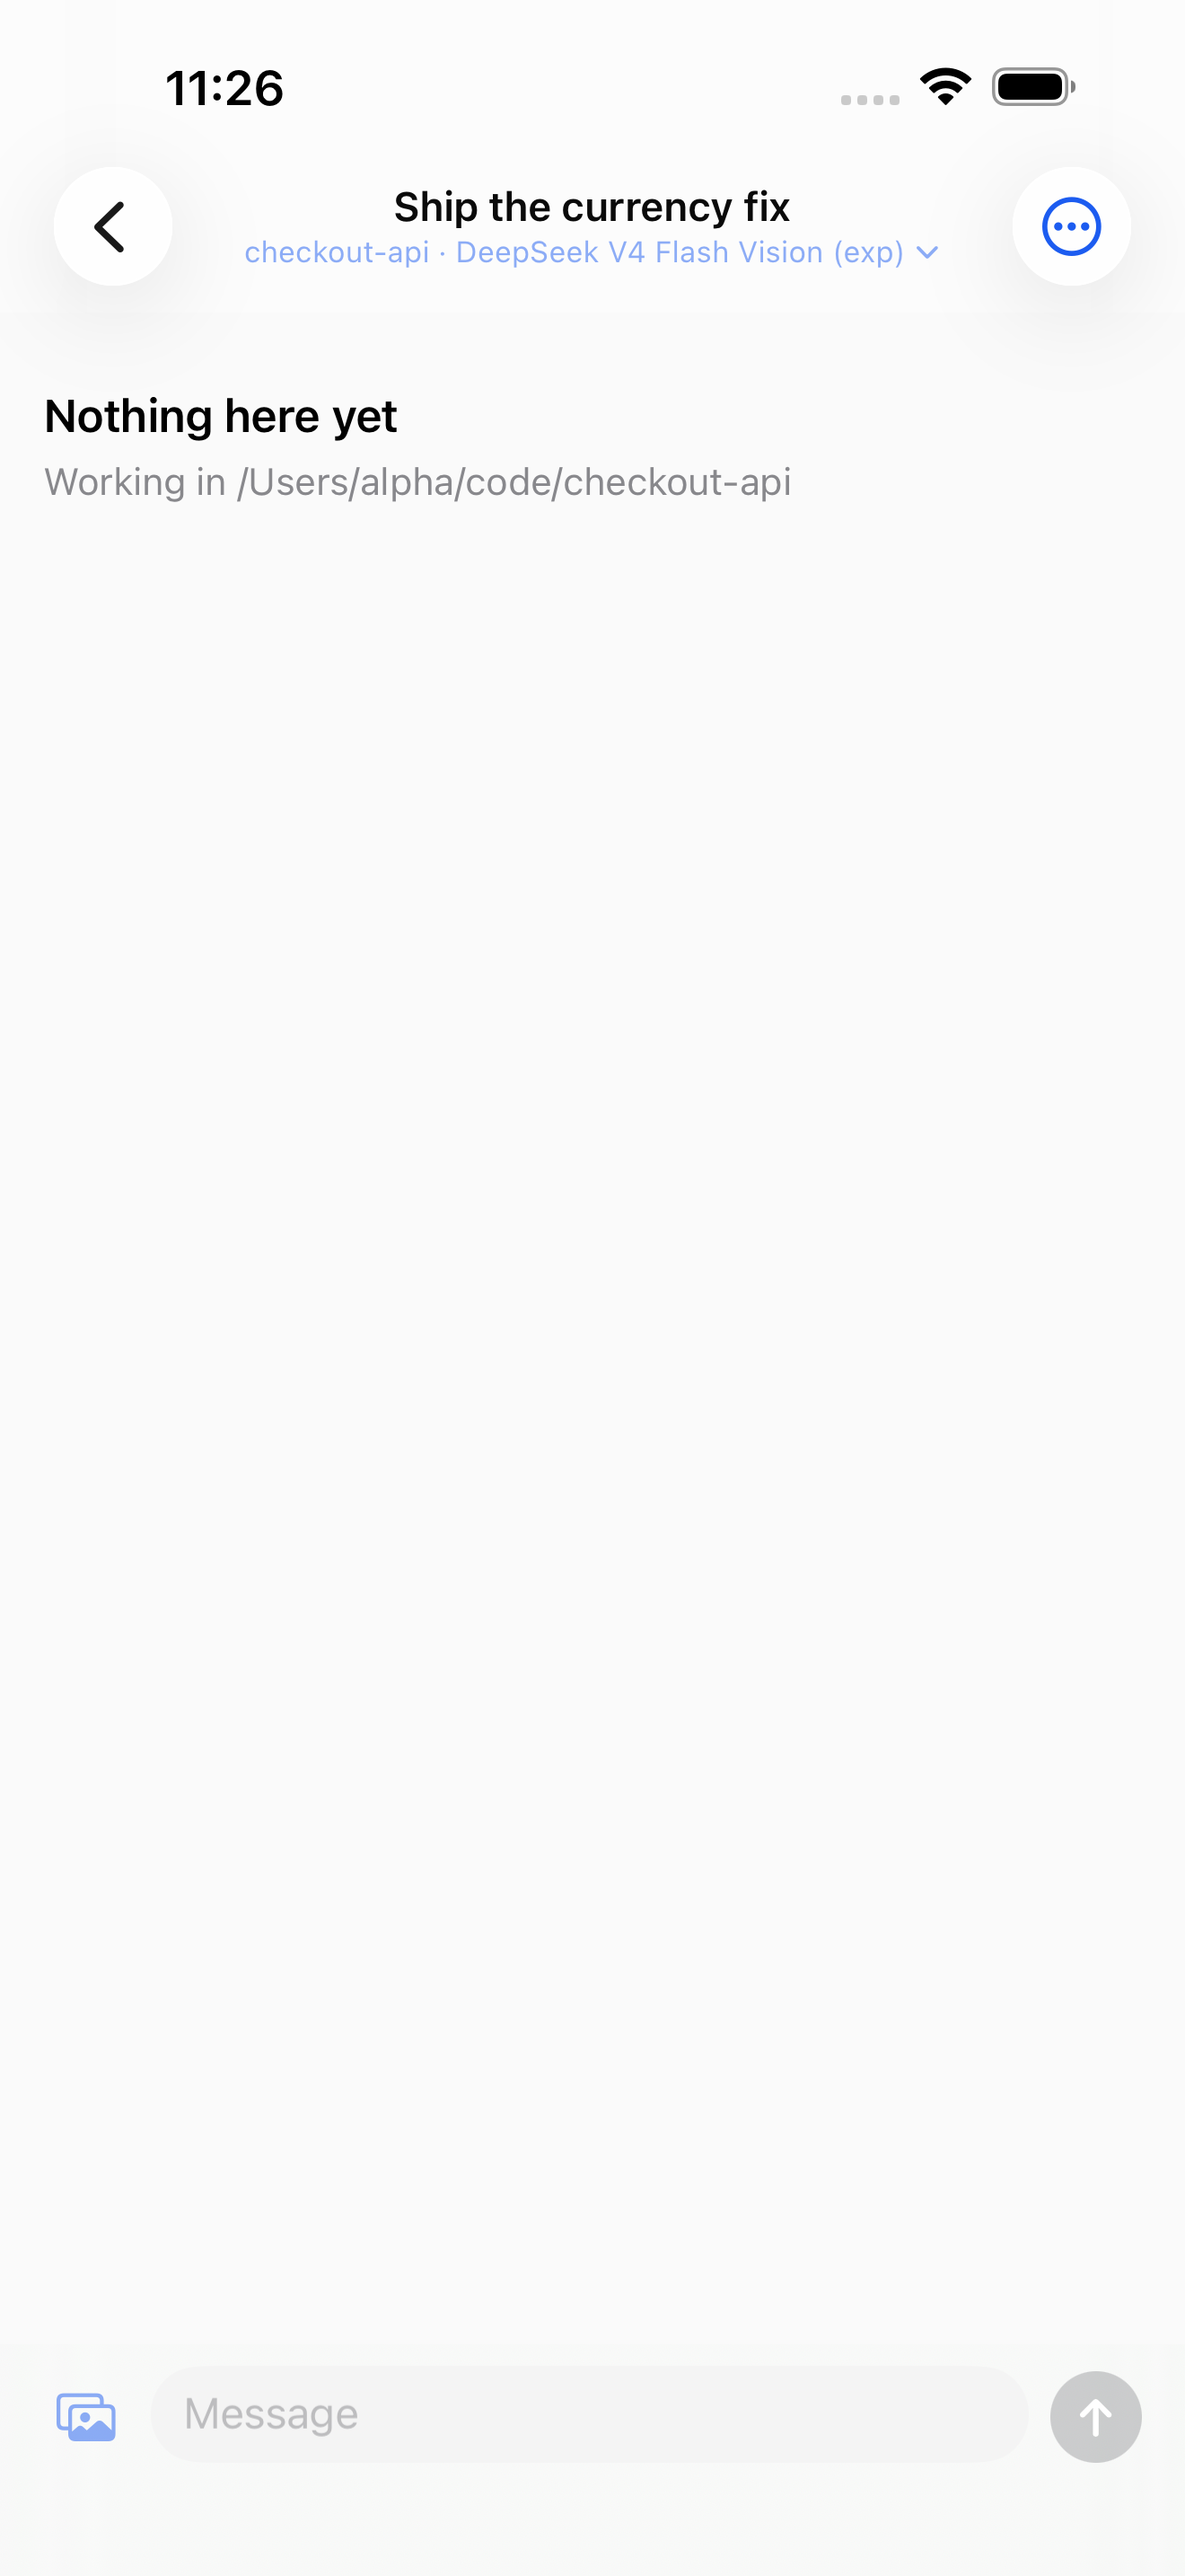
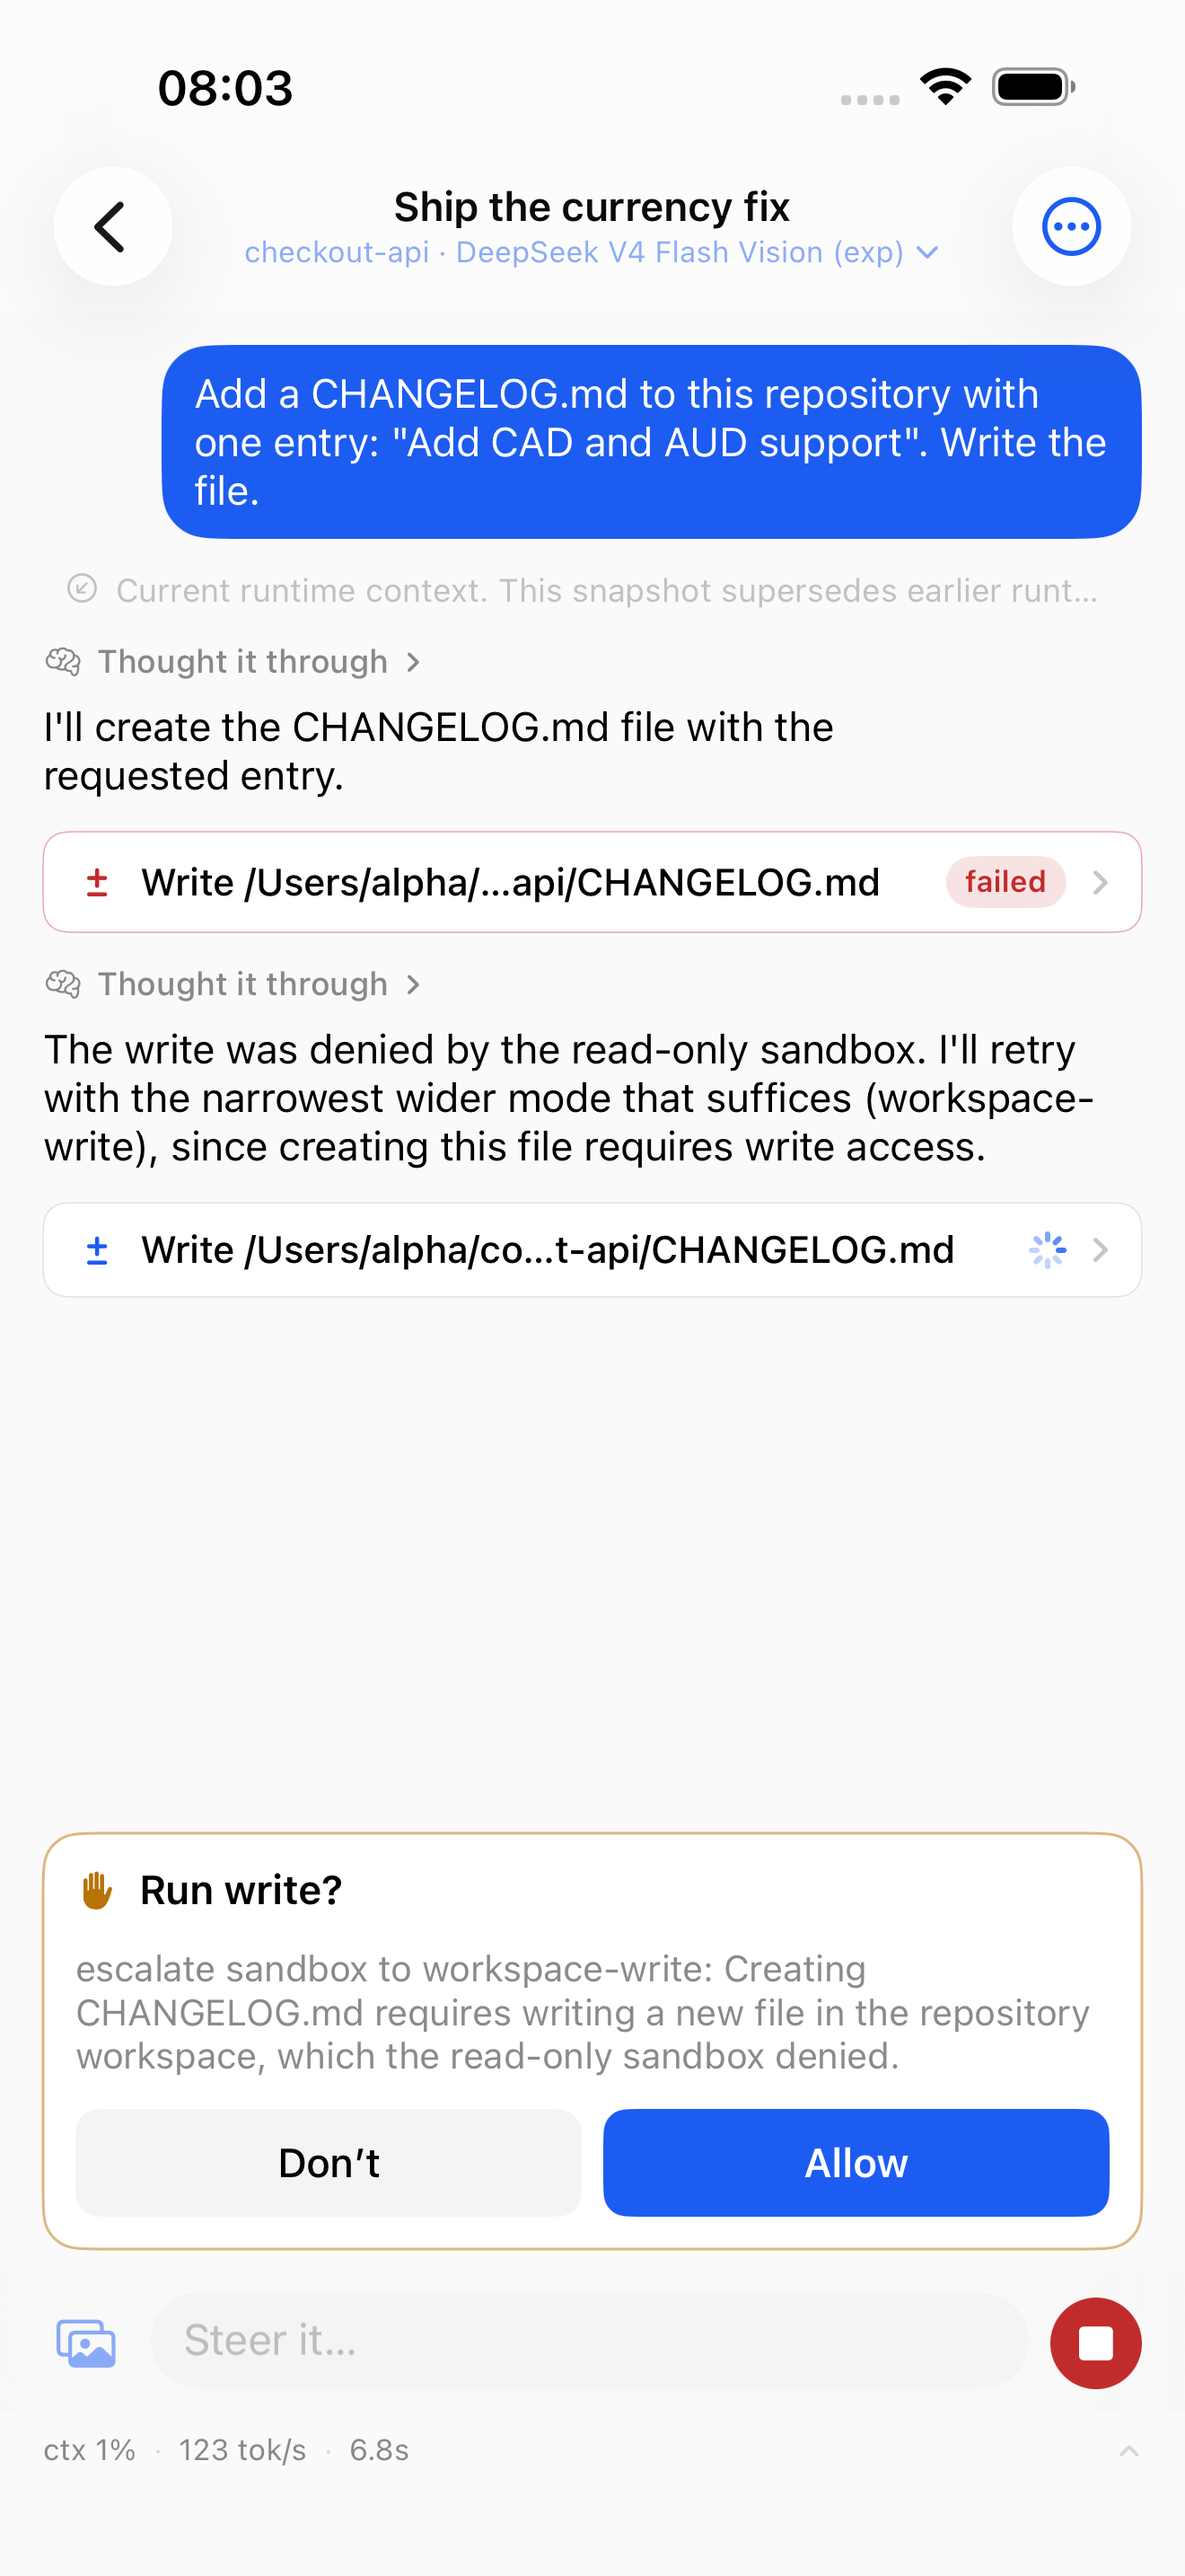
Photograph the approval card
The conversation that has to stop and ask never actually stopped: it was
asked to push to a remote that does not exist, and an agent that fails at
something reports the failure rather than asking permission for it. What the
site described — the request arriving with the command, and Don't or Allow
under it — had no picture because nothing had ever produced one.

Provoking it properly takes the permission preset, not the prompt. Under
`read-only` the first write is denied, the agent asks to escalate, and the
session sits there waiting with the reason it gave. That is the state worth
photographing, and it is reproducible rather than lucky.

The driver also now photographs each attempt it gives up on rather than only
the last one — by then it has backed out to the list, so what it recorded
was the list, and the screen that went wrong was gone. The first use of that
paid for it immediately: the app was not hanging, it was retrying, and the
banner underneath said `session.history: fetch failed: connect
EADDRNOTAVAIL 127.0.0.1:3082` — a transient loopback failure under socket
churn, which the old three-word error would have hidden completely.

diff --git a/ios/RowelUITests/Screenshots.swift b/ios/RowelUITests/Screenshots.swift
@@ -22,6 +22,8 @@ final class Screenshots: XCTestCase {
     private var app: XCUIApplication!
     private let out = "/Users/alpha/.walkcode/workspace/rowel/marketing/shots"
     private let patience: TimeInterval = 60
+    /// Counts failed attempts so their screenshots do not overwrite each other.
+    private var attempts = 0
 
     override func setUpWithError() throws {
         continueAfterFailure = false
@@ -149,14 +151,28 @@ final class Screenshots: XCTestCase {
     private func transcriptLoaded(timeout: TimeInterval = 30) -> Bool {
         let deadline = Date().addingTimeInterval(timeout)
         while Date() < deadline {
-            if app.staticTexts["Nothing here yet"].exists { return false }
+            if app.staticTexts["Nothing here yet"].exists {
+                note("empty")
+                return false
+            }
             if !app.staticTexts["Opening…"].exists
                 && !app.staticTexts["Loading this conversation…"].exists {
                 return true
             }
             usleep(400_000)
         }
+        note("stuck")
         return false
+    }
+
+    /// Photograph a screen that did not do what was expected, before leaving it.
+    ///
+    /// The failure screenshot used to be taken at the end, by which point the
+    /// driver had already backed out to the list — so what it recorded was the
+    /// list, and the screen that actually went wrong was gone.
+    private func note(_ why: String) {
+        attempts += 1
+        save("failure-\(why)-\(attempts)")
     }
 
     /// The machine's name, and the identity the pairing is anchored to.

diff --git a/site/public/index.html b/site/public/index.html
@@ -90,12 +90,8 @@
       list when you come back, where it cannot be scrolled past.
     </p>
   </div>
-  <!-- No screenshot here yet, deliberately. The seeded conversation this was
-       taken from ended in a failed push rather than a pending approval, so the
-       picture showed an error under a caption about approving things — and it
-       carried a personal account name besides. A section with no image is
-       better than one whose image contradicts it. Re-seed an approval and put
-       it back. -->
+  <img class="shot" src="/_/shots/approval.webp" width="1320" height="2868" loading="lazy"
+       alt="Rowel showing a pending approval: the agent asks to escalate the sandbox so it can write a file, with Don't and Allow buttons under the reason it gave.">
 </section>
 
 <section class="feature">
